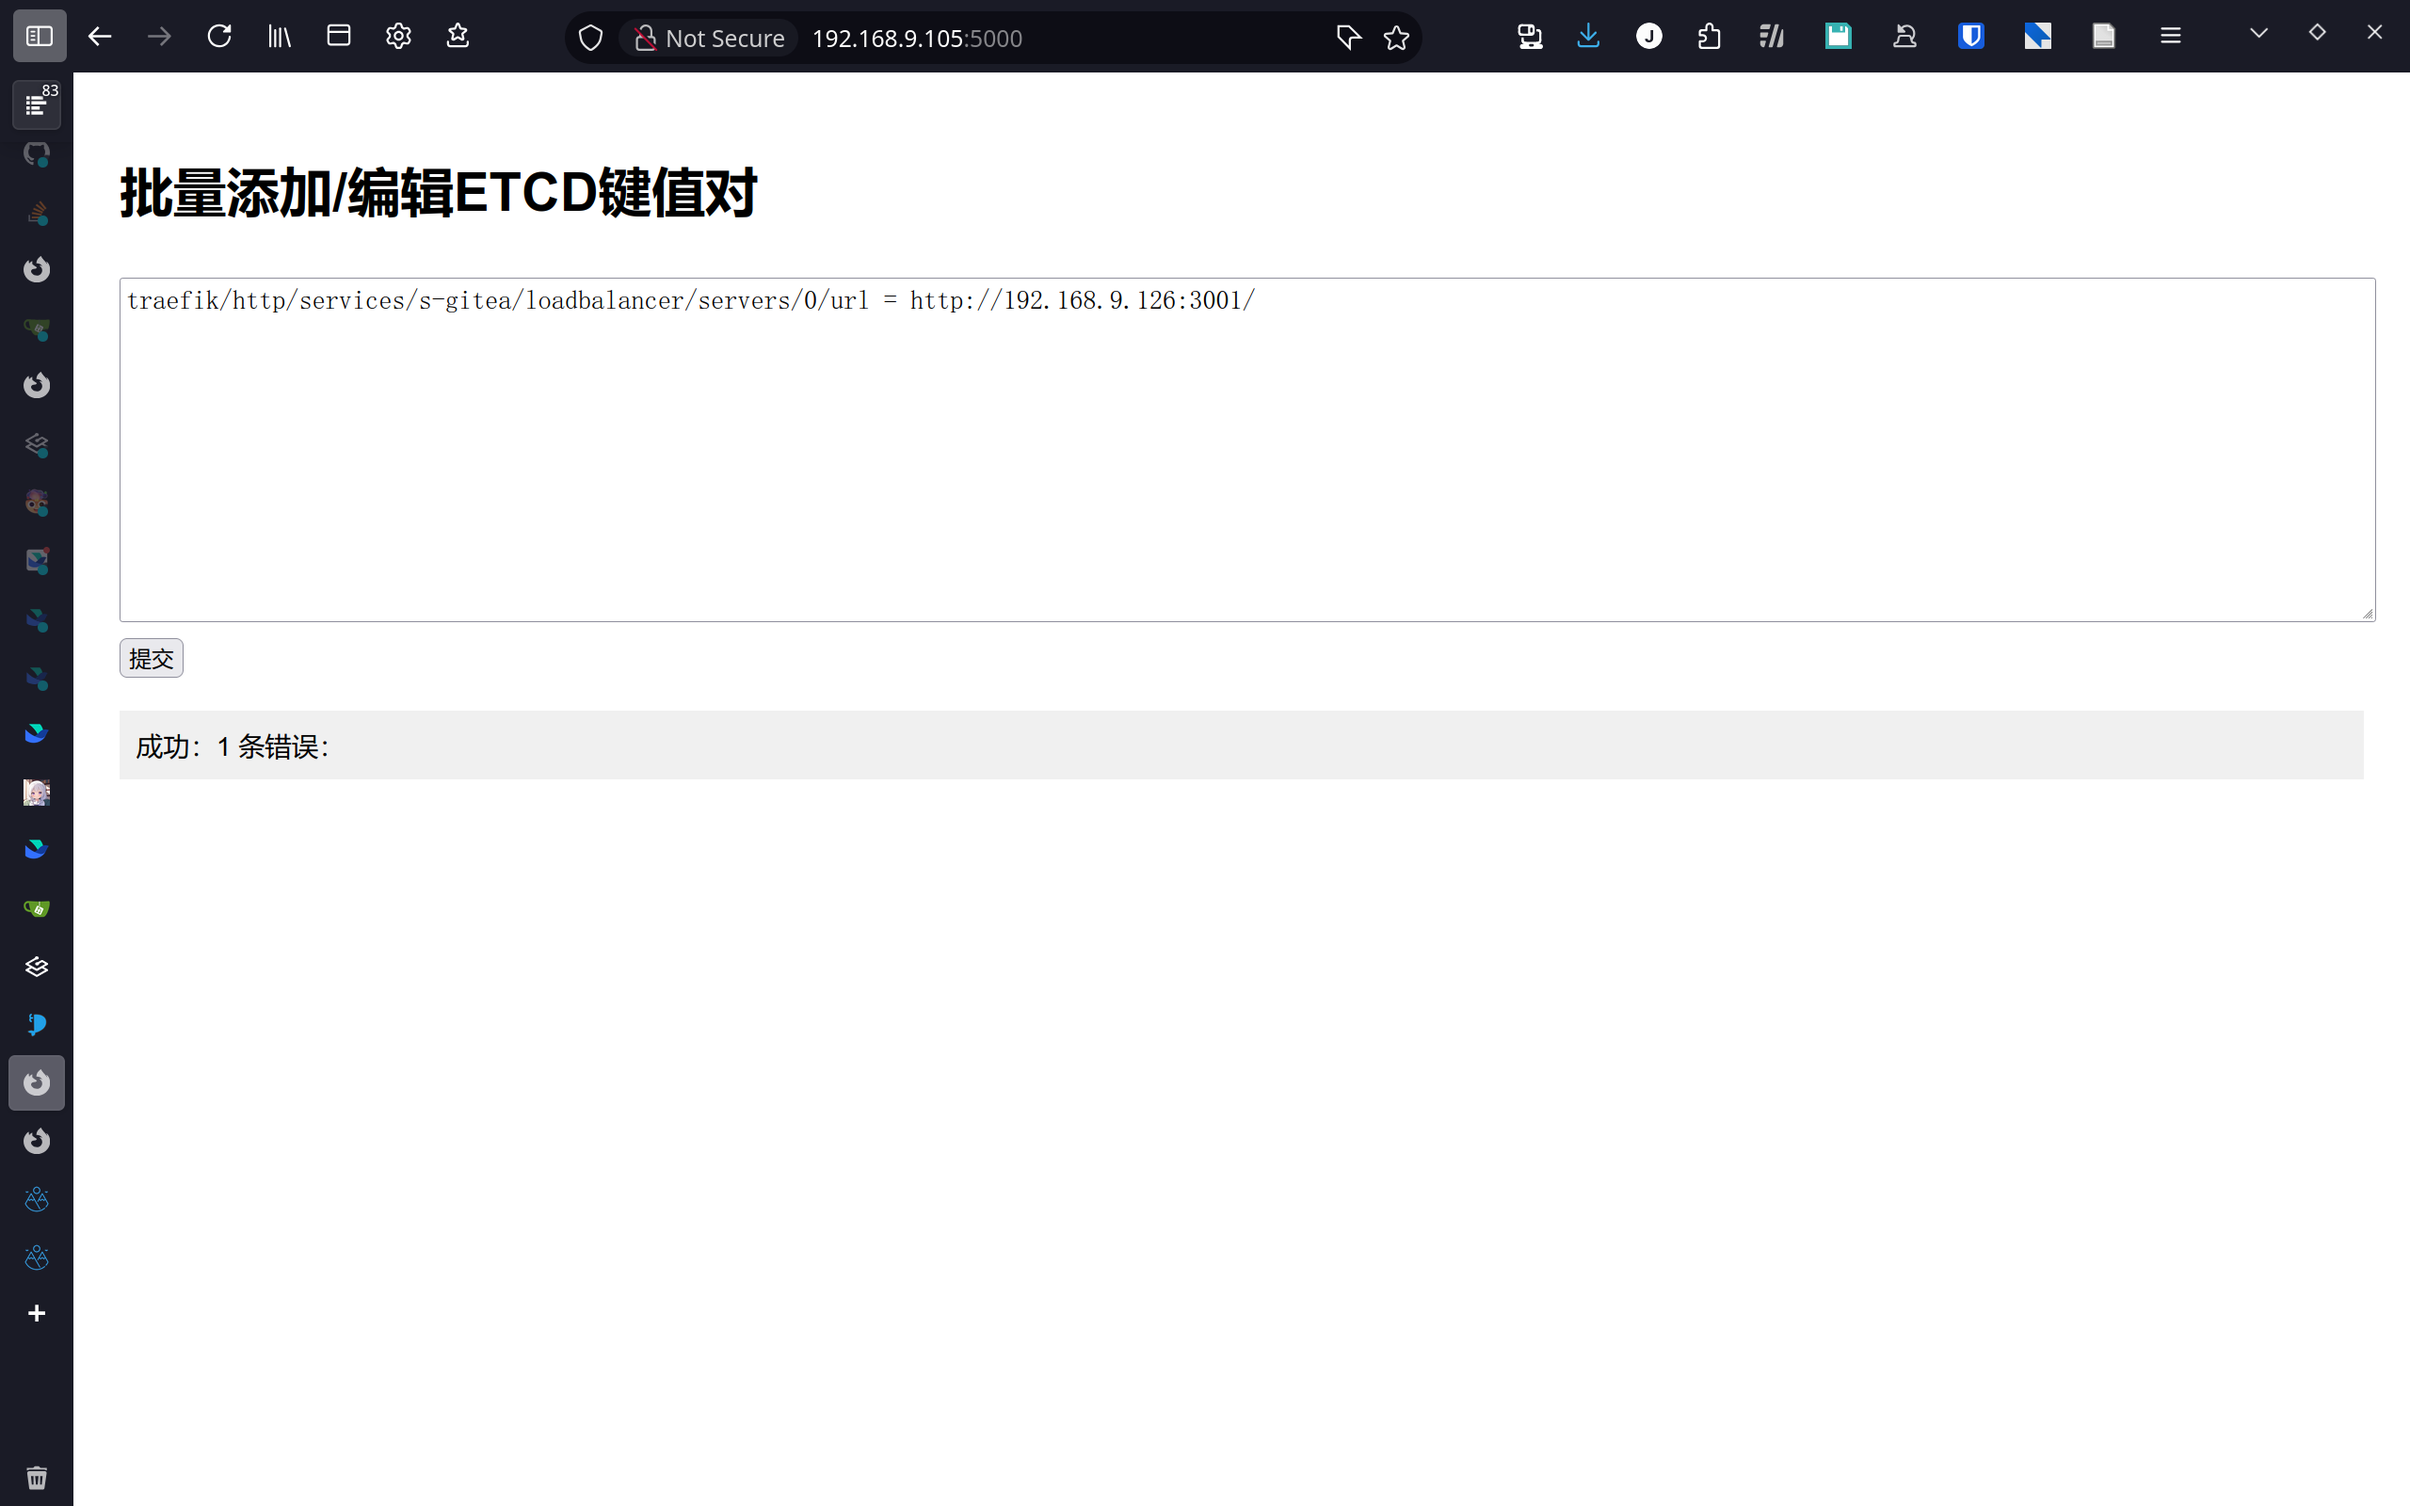
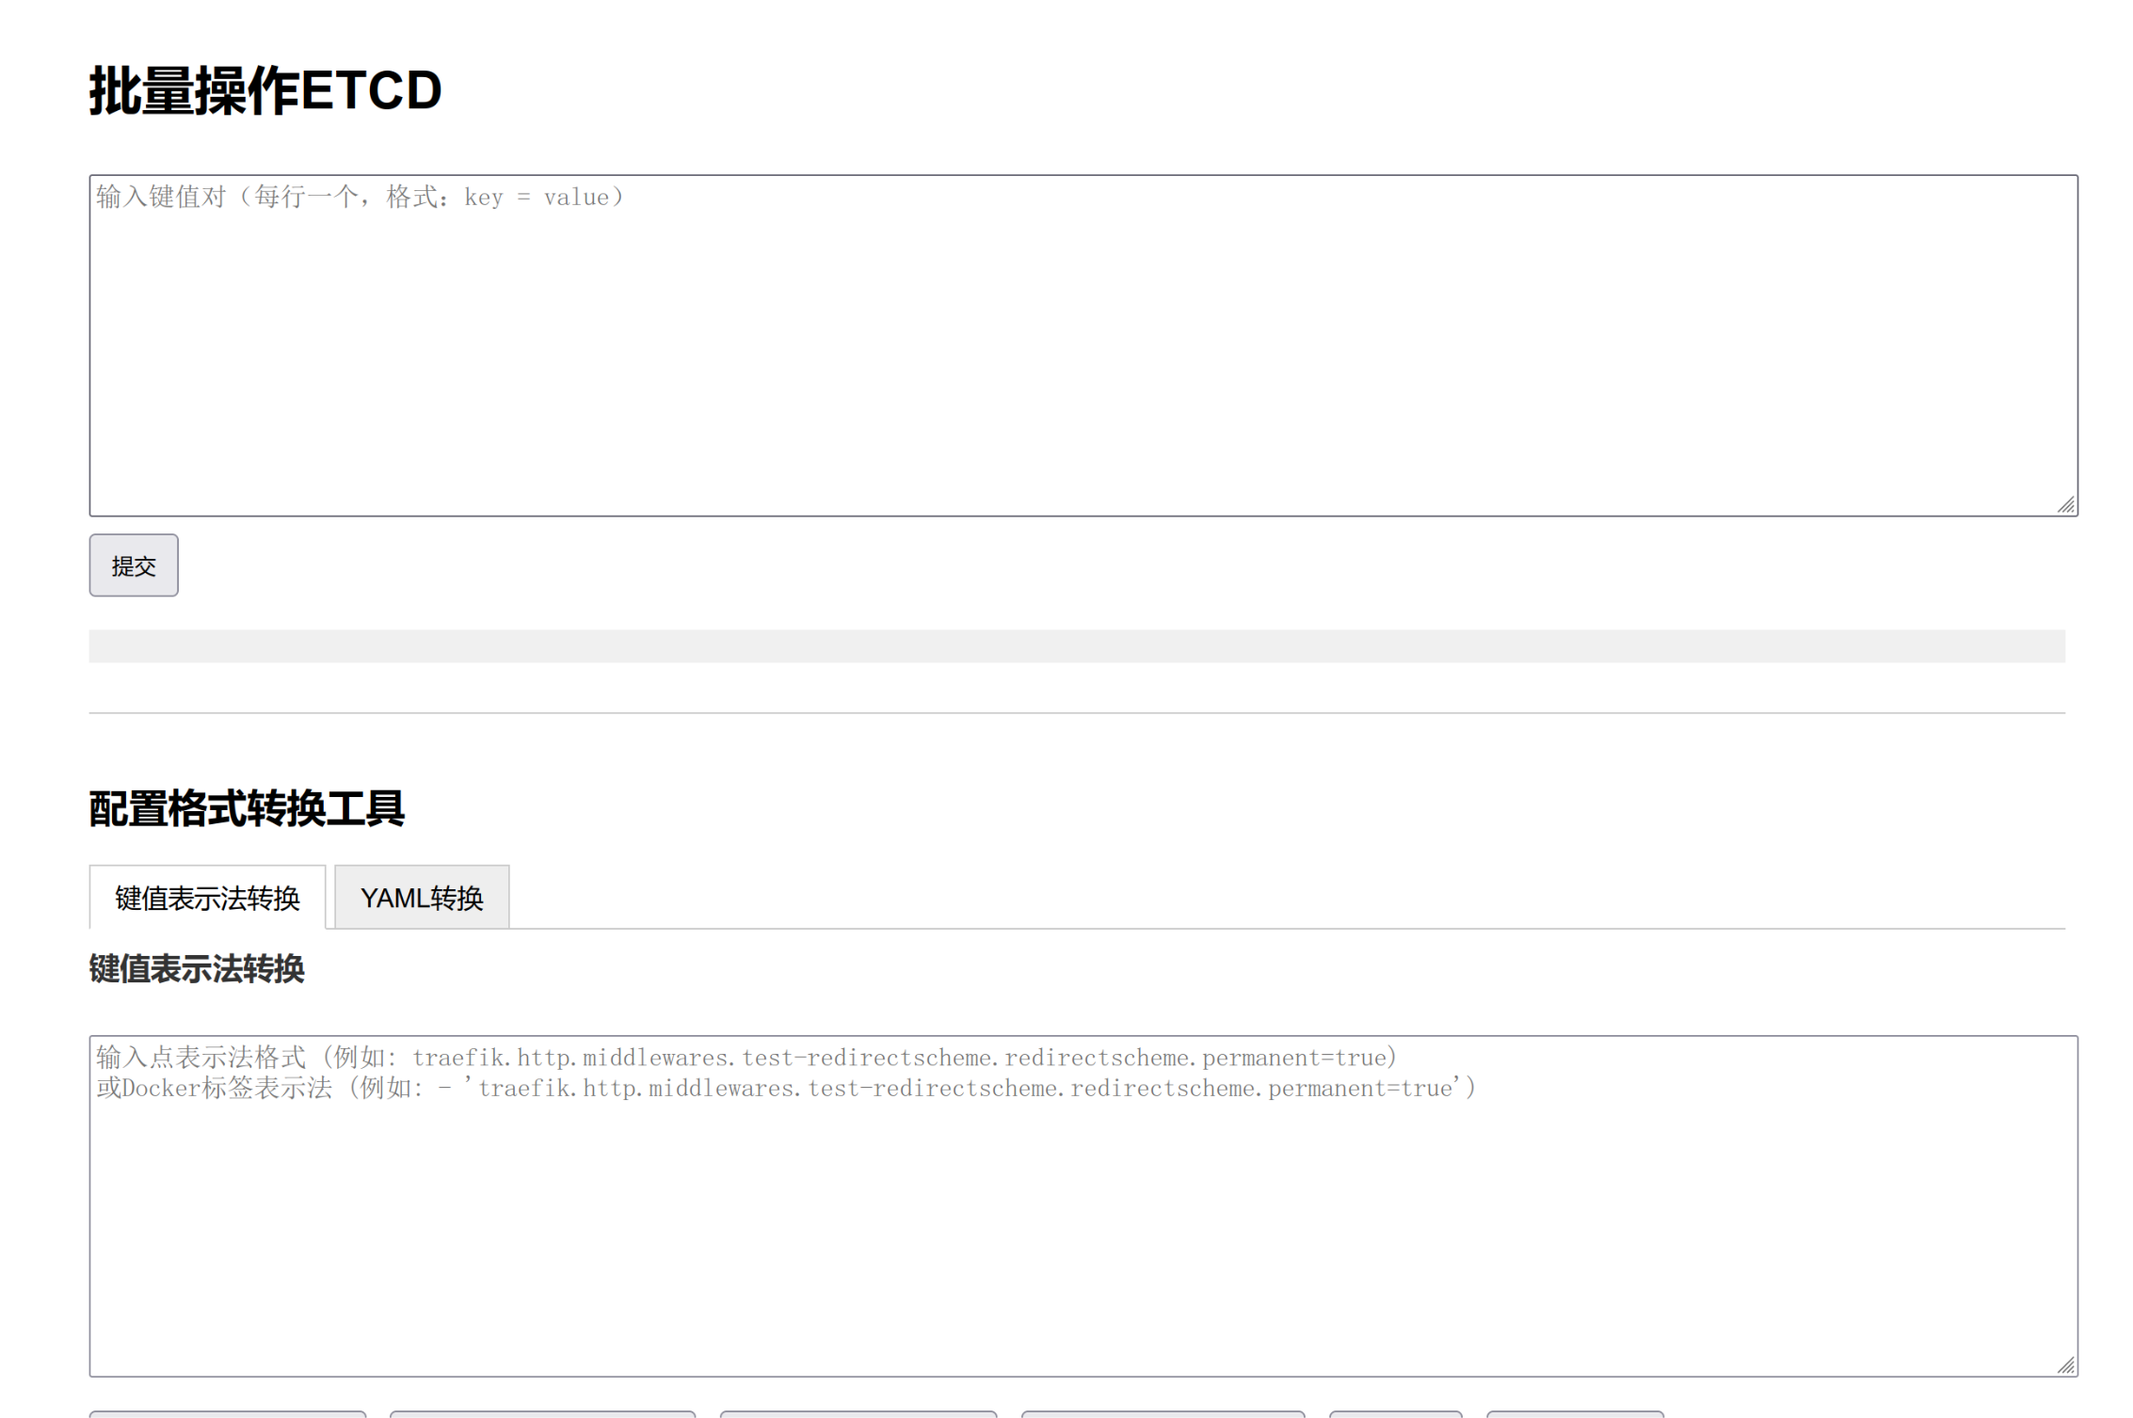
增加转换工具

diff --git a/src/static/index.html b/src/static/index.html
@@ -3,18 +3,92 @@
 <head>
     <title>批量操作ETCD</title>
     <style>
-        body { font-family: Arial, sans-serif; padding: 20px; }
-        textarea { width: 100%; min-height: 200px; margin: 10px 0; }
+        body { font-family: Arial, sans-serif; padding: 20px; max-width: 1200px; margin: 0 auto; }
+        textarea { width: 100%; min-height: 200px; margin: 10px 0; font-family: monospace; }
         #result { margin-top: 20px; padding: 10px; background-color: #f0f0f0; }
+        .tool-section { margin-top: 30px; border-top: 1px solid #ccc; padding-top: 20px; }
+        pre { white-space: pre-wrap; background-color: #f5f5f5; padding: 10px; font-family: monospace; }
+        .button-group { margin: 10px 0; }
+        button { margin-right: 10px; padding: 8px 12px; cursor: pointer; }
+        .tabs { display: flex; border-bottom: 1px solid #ccc; margin-bottom: 10px; }
+        .tab { padding: 8px 15px; cursor: pointer; background: #eee; border: 1px solid #ccc; border-bottom: none; margin-right: 5px; }
+        .tab.active { background: white; border-bottom: 1px solid white; margin-bottom: -1px; }
+        h3 { margin-top: 0; color: #333; }
     </style>
 </head>
 <body>
-    <h1>批量添加/编辑ETCD键值对</h1>
+    <h1>批量操作ETCD</h1>
     <textarea id="kvPairs" placeholder="输入键值对（每行一个，格式：key = value）"></textarea>
     <button onclick="submitKVPairs()">提交</button>
     <div id="result"></div>
 
+    <!-- 格式转换工具 -->
+    <div class="tool-section">
+        <h2>配置格式转换工具</h2>
+
+        <div class="tabs">
+            <div class="tab active" onclick="switchTab('notationTab', this)">键值表示法转换</div>
+            <div class="tab" onclick="switchTab('yamlTab', this)">YAML转换</div>
+        </div>
+
+        <!-- 键值表示法转换工具 -->
+        <div id="notationTab" class="tab-content">
+            <h3>键值表示法转换</h3>
+            <textarea id="dotNotationInput" placeholder="输入点表示法格式 (例如: traefik.http.middlewares.test-redirectscheme.redirectscheme.permanent=true)
+或Docker标签表示法 (例如: - 'traefik.http.middlewares.test-redirectscheme.redirectscheme.permanent=true')"></textarea>
+            <div class="button-group">
+                <button onclick="convertNotation('dot-to-path')">点表示法 → 路径表示法</button>
+                <button onclick="convertNotation('docker-to-path')">Docker标签 → 路径表示法</button>
+                <button onclick="convertNotation('path-to-dot')">路径表示法 → 点表示法</button>
+                <button onclick="convertNotation('docker-to-dot')">Docker标签 → 点表示法</button>
+                <button onclick="copyToClipboard('notationResult')">复制结果</button>
+                <button onclick="moveToMainInput('notationResult')">移至主输入框</button>
+            </div>
+            <pre id="notationResult"></pre>
+        </div>
+
+        <!-- YAML转换工具 -->
+        <div id="yamlTab" class="tab-content" style="display: none;">
+            <h3>YAML转换工具</h3>
+            <textarea id="yamlInput" placeholder="输入YAML格式 (例如:
+# Redirect to https
+http:
+  middlewares:
+    test-redirectscheme:
+      redirectScheme:
+        scheme: https
+        permanent: true
+)"></textarea>
+            <div class="button-group">
+                <button onclick="convertYamlTo('dot')">转换为点表示法</button>
+                <button onclick="convertYamlTo('path')">转换为路径表示法</button>
+                <button onclick="convertYamlTo('docker')">转换为Docker标签</button>
+                <button onclick="copyToClipboard('yamlResult')">复制结果</button>
+                <button onclick="moveToMainInput('yamlResult')">移至主输入框</button>
+            </div>
+            <pre id="yamlResult"></pre>
+        </div>
+    </div>
+
     <script>
+        function switchTab(tabId, tabElement) {
+            // Hide all tab contents
+            document.querySelectorAll('.tab-content').forEach(tab => {
+                tab.style.display = 'none';
+            });
+
+            // Remove active class from all tabs
+            document.querySelectorAll('.tab').forEach(tab => {
+                tab.classList.remove('active');
+            });
+
+            // Show selected tab content
+            document.getElementById(tabId).style.display = 'block';
+
+            // Add active class to selected tab
+            tabElement.classList.add('active');
+        }
+
         async function submitKVPairs() {
             const textarea = document.getElementById('kvPairs');
             const kvPairs = textarea.value.trim().split('\n');
@@ -45,6 +119,105 @@
             } catch (error) {
                 document.getElementById('result').textContent = `错误：${error}`;
             }
+        }
+
+        function convertNotation(conversionType) {
+            const input = document.getElementById('dotNotationInput').value.trim();
+            const lines = input.split('\n');
+            const convertedLines = [];
+
+            for (const line of lines) {
+                let processedLine = line.trim();
+                let keyValue = processedLine;
+
+                // 处理Docker标签格式
+                if (conversionType.startsWith('docker-') && (processedLine.startsWith('- "') || processedLine.startsWith("- '") || processedLine.startsWith('-'))) {
+                    // 提取Docker标签中的键值对
+                    keyValue = processedLine.replace(/^- ['"]?|['"]?$/g, '').trim();
+                }
+
+                if (keyValue.includes('=')) {
+                    let [key, value] = keyValue.split('=').map(part => part.trim());
+
+                    if (conversionType === 'dot-to-path' || conversionType === 'docker-to-path') {
+                        // 将点表示法转换为路径表示法
+                        key = key.replace(/\./g, '/');
+                        convertedLines.push(`${key} = ${value}`);
+                    } else if (conversionType === 'path-to-dot' || conversionType === 'docker-to-dot') {
+                        // 将路径表示法转换为点表示法
+                        key = key.replace(/\//g, '.');
+                        convertedLines.push(`${key} = ${value}`);
+                    }
+                } else {
+                    // 保留不符合格式的行
+                    convertedLines.push(processedLine);
+                }
+            }
+
+            document.getElementById('notationResult').textContent = convertedLines.join('\n');
+        }
+
+        function convertYamlTo(format) {
+            const yamlText = document.getElementById('yamlInput').value.trim();
+            const lines = yamlText.split('\n');
+            const result = [];
+            const keyStack = [];
+            let prefix = 'traefik'; // 添加默认前缀
+
+            // 处理每一行
+            for (let line of lines) {
+                // 跳过注释行
+                if (line.trim().startsWith('#')) continue;
+
+                // 计算缩进级别
+                const indent = line.search(/\S|$/);
+                const level = Math.floor(indent / 2);
+
+                // 根据缩进调整键栈
+                while (keyStack.length > level) {
+                    keyStack.pop();
+                }
+
+                // 解析键值对
+                const trimmedLine = line.trim();
+                if (trimmedLine.includes(':')) {
+                    const [key, value] = trimmedLine.split(':').map(part => part.trim());
+
+                    // 将键添加到栈中
+                    keyStack[level] = key;
+
+                    // 如果有值，生成键值对
+                    if (value && value !== '') {
+                        const fullKey = [prefix, ...keyStack.slice(0, level + 1)];
+                        if (format === 'dot') {
+                            result.push(`${fullKey.join('.')} = ${value}`);
+                        } else if (format === 'path') {
+                            result.push(`${fullKey.join('/')} = ${value}`);
+                        } else if (format === 'docker') {
+                            result.push(`- "${fullKey.join('.')}"="${value}"`);
+                        }
+                    }
+                }
+            }
+
+            document.getElementById('yamlResult').textContent = result.join('\n');
+        }
+
+        function copyToClipboard(elementId) {
+            const text = document.getElementById(elementId).textContent;
+            navigator.clipboard.writeText(text)
+                .then(() => {
+                    alert('已复制到剪贴板');
+                })
+                .catch(err => {
+                    console.error('复制失败:', err);
+                    alert('复制失败，请手动复制');
+                });
+        }
+
+        function moveToMainInput(elementId) {
+            const text = document.getElementById(elementId).textContent;
+            document.getElementById('kvPairs').value = text;
         }
     </script>
 </body>

diff --git a/README.md b/README.md
@@ -2,6 +2,11 @@
 
 # etcdweb - simple to put KV data to etcd
 
+
+2025.05.01 新增traefik docker\yaml到所用的路径方式转换工具
+![alt text](image02.png)
+![alt text](image03.png)
+
 ## Configuration
 
 src/app.py
@@ -25,6 +30,7 @@ poetry run python ./src/app.py
 
 ### with docker-compose
 ```bash
+docker compose build
 docker compose up -d
 ```
 ### with traefik
